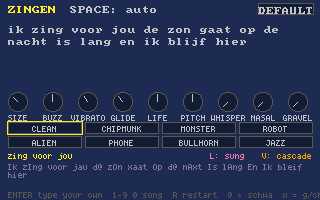
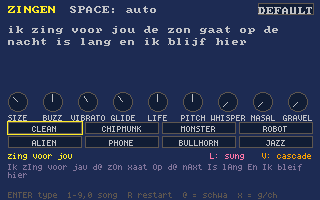
zingen: shorter footer (it ran off the screen edge)

Changed region(s): [[0.1875, 0.96, 0.9062, 1.0], [0.9375, 0.96, 1.0, 1.0]]

diff --git a/tools/carts/zingen.c b/tools/carts/zingen.c
@@ -443,7 +443,7 @@ void draw(void) {
     print(SONGS[which].name, 8, 153, CLR_YELLOW);
     print(sung ? "L: sung" : "L: plain", SCREEN_W - 110, 153, sung ? CLR_PINK : CLR_DARK_GREY);
     { const char *m = casc ? "V: cascade" : "V: parallel"; print(m, SCREEN_W - 8 - text_width(m), 153, casc ? CLR_ORANGE : CLR_DARK_GREY); }
-    print("ENTER type your own  1-9 0 song  R restart  @ = schwa  x = g/ch", 8, SCREEN_H - 8, CLR_DARK_GREY);
+    print("ENTER type  1-9,0 song  R restart  @ = schwa  x = g/ch", 8, SCREEN_H - 8, CLR_DARK_GREY);
     font(FONT_NORMAL);
     if (typing) draw_box();
     ui_end();
